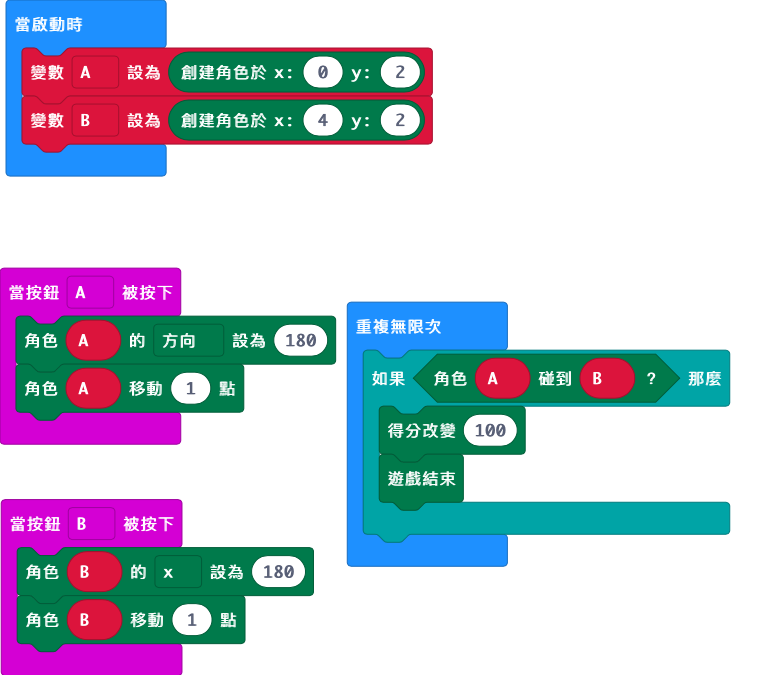
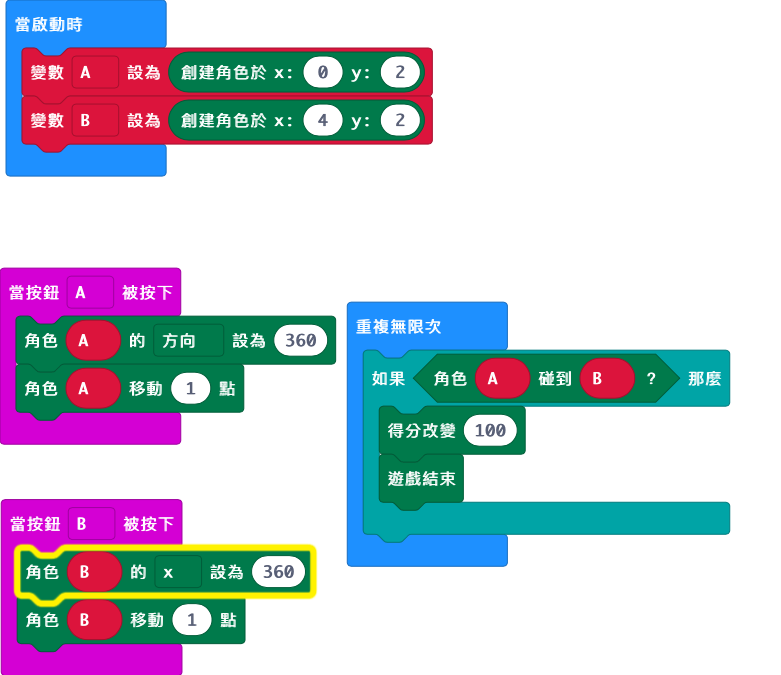
Update main.blocks, main.ts

Changed region(s): [[0.0, 0.7778, 0.4302, 0.9022], [0.3688, 0.4978, 0.3995, 0.5289]]

diff --git a/main.ts b/main.ts
@@ -1,9 +1,9 @@
 input.onButtonPressed(Button.A, function () {
-    A.set(LedSpriteProperty.Direction, 180)
+    A.set(LedSpriteProperty.Direction, 360)
     A.move(1)
 })
 input.onButtonPressed(Button.B, function () {
-    B.set(LedSpriteProperty.X, 180)
+    B.set(LedSpriteProperty.X, 360)
     B.move(1)
 })
 let B: game.LedSprite = null
